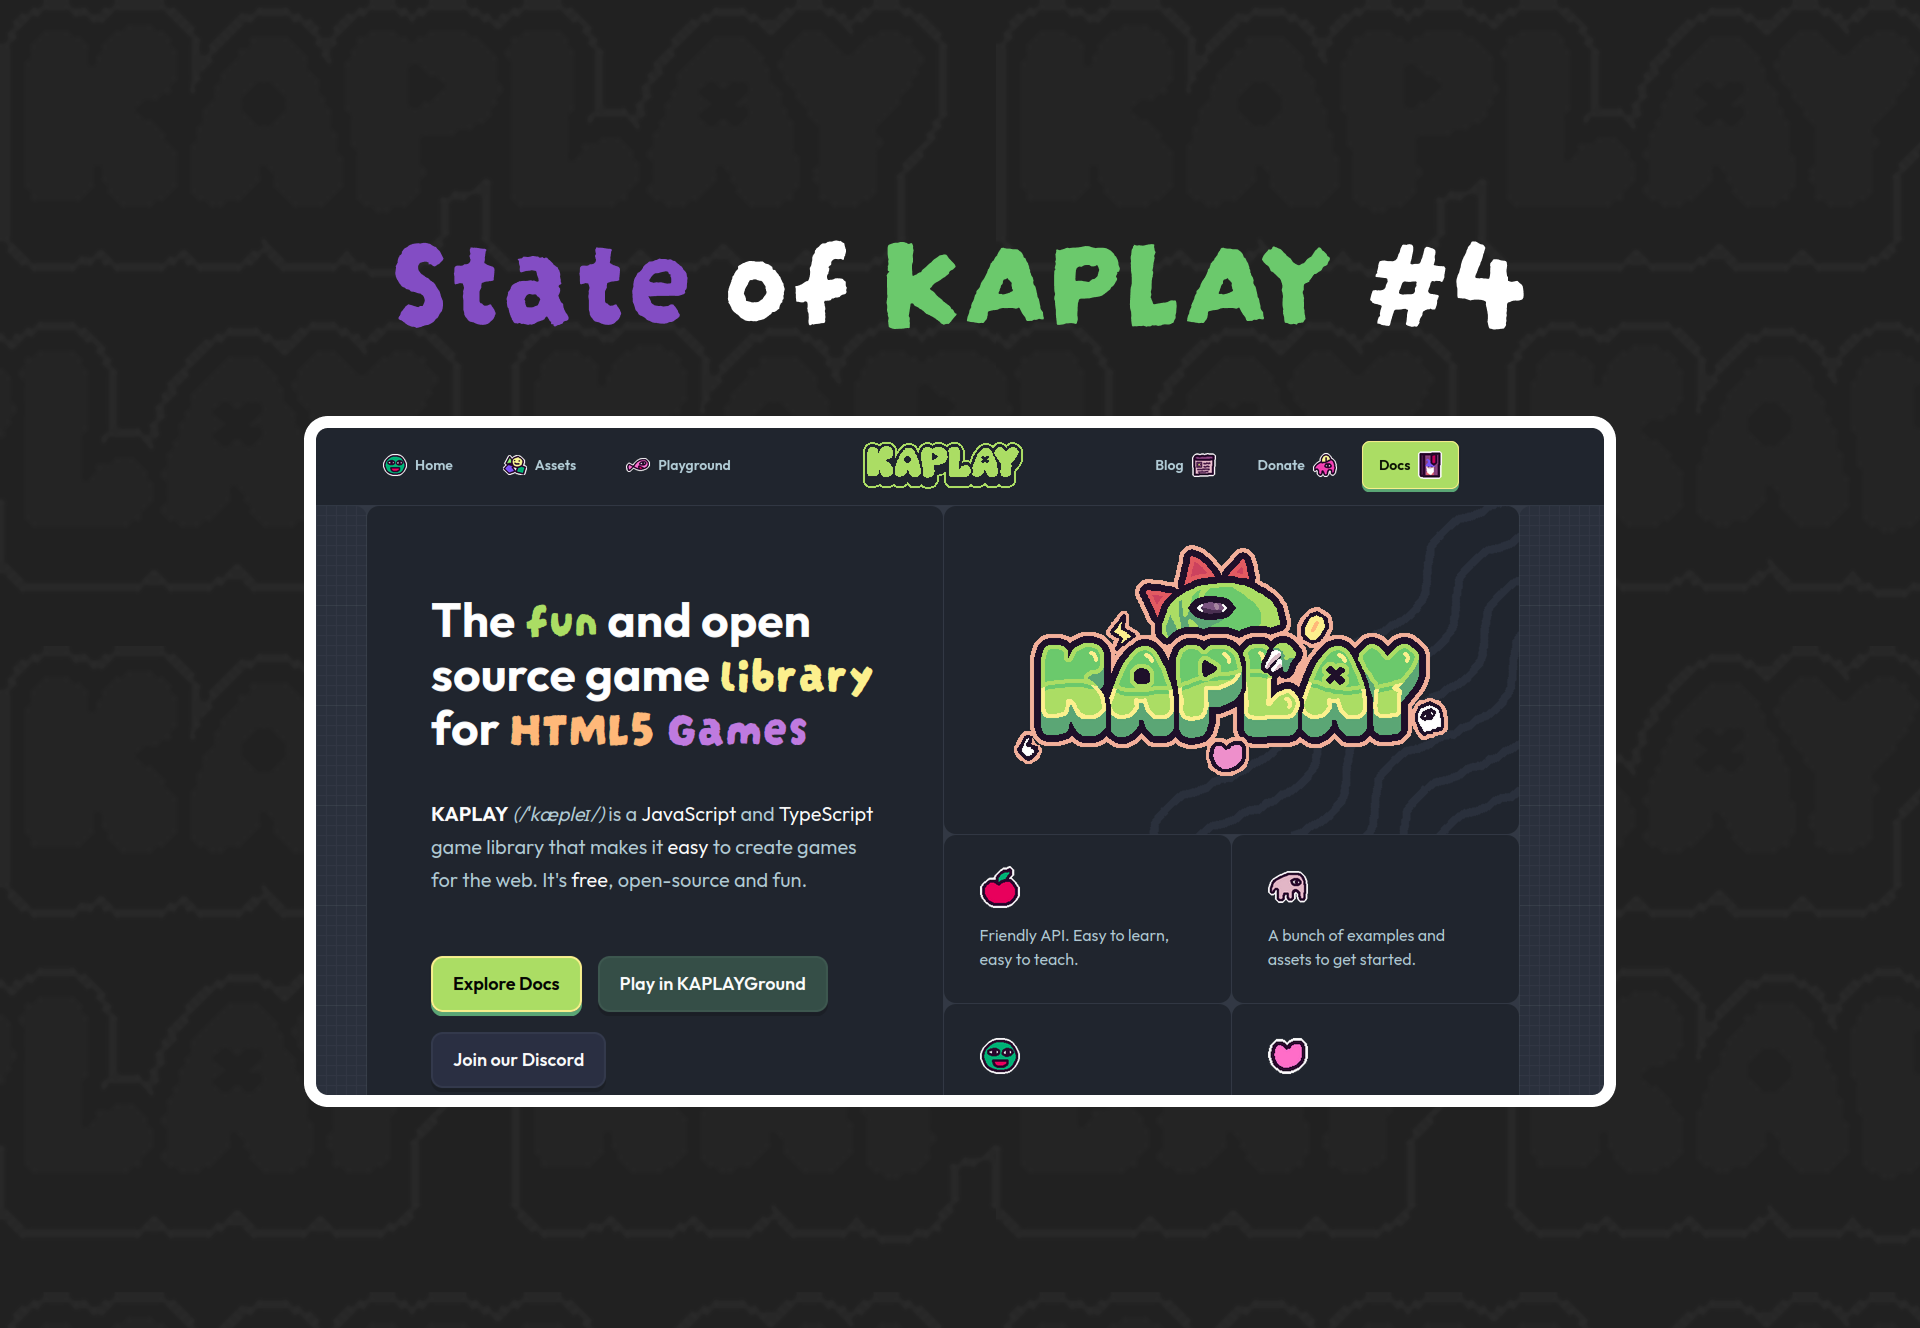
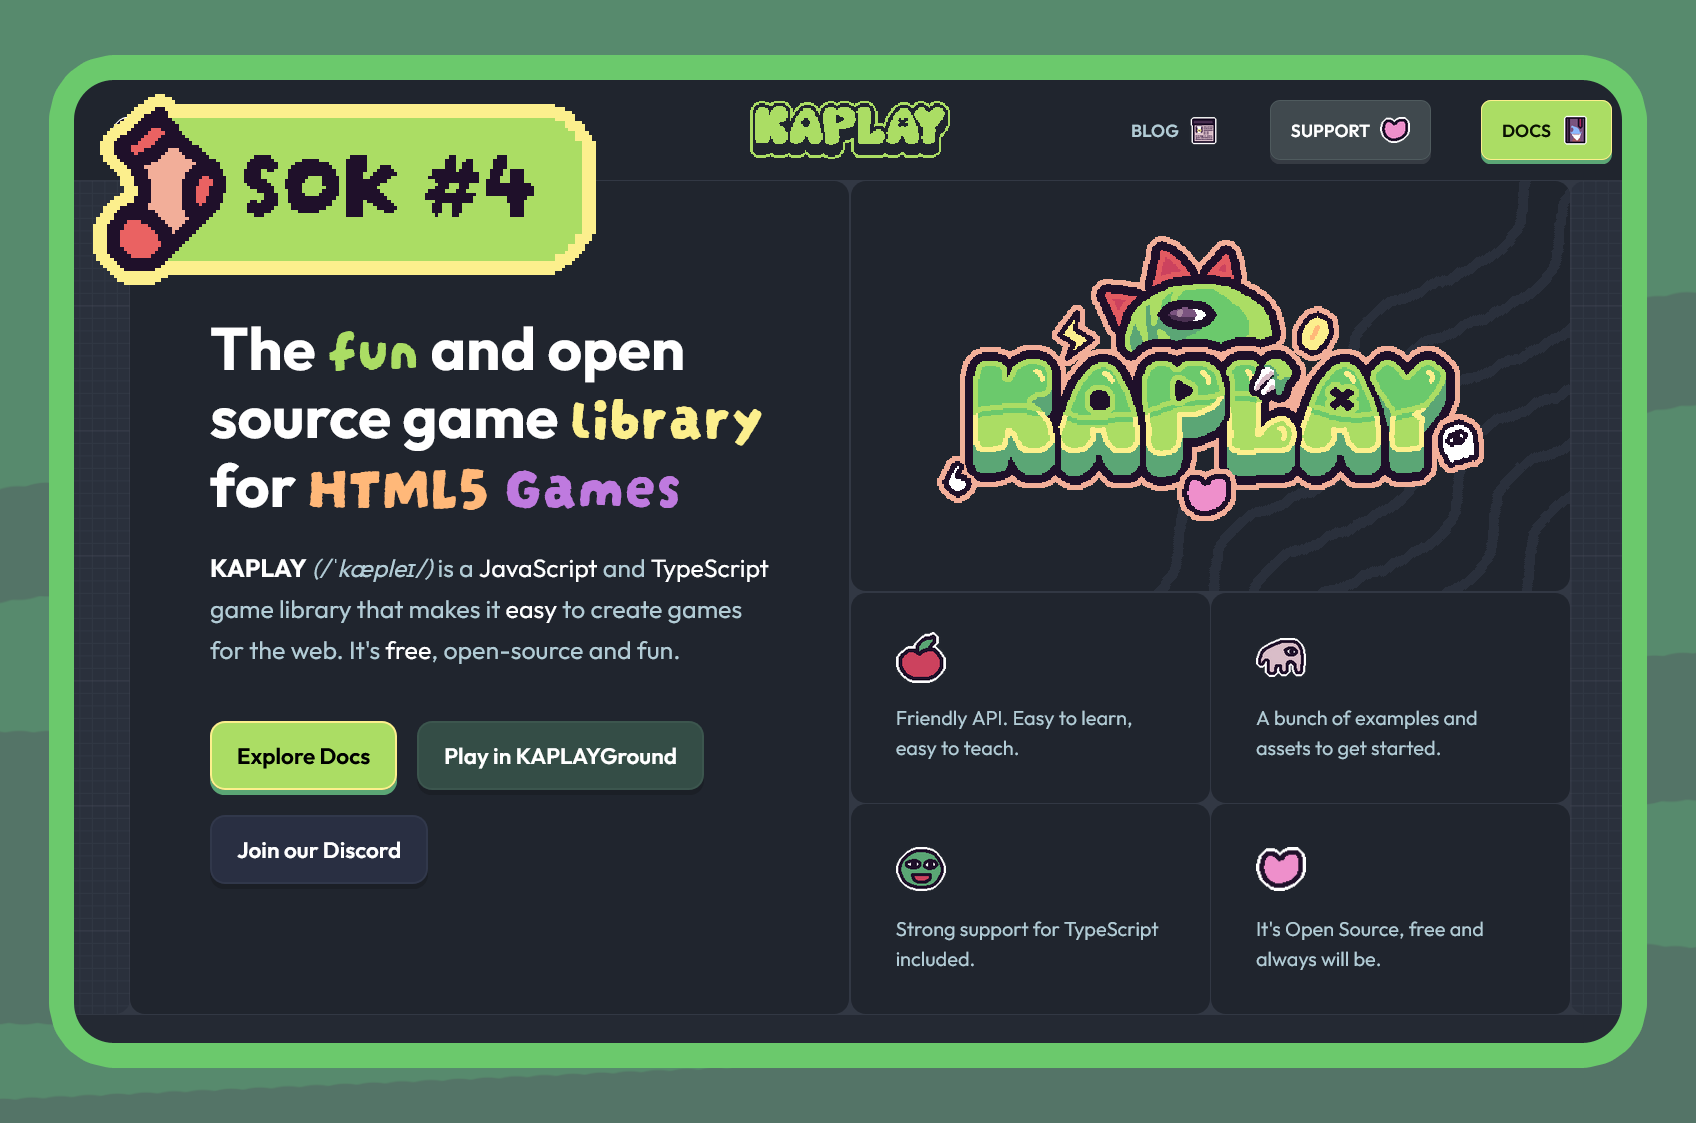
chore: update sok images

diff --git a/src/content/blog/sok2.md b/src/content/blog/sok2.md
@@ -5,7 +5,7 @@ date: 09/2/2024
 description:
     Explore the latest advancements and community highlights in KAPLAY, the
     successor to Kaboom.js. Discover new features, contributors, and more!
-image: banners/sok1.png
+image: banners/sok2.png
 ---
 
 # State of KAPLAY #2
